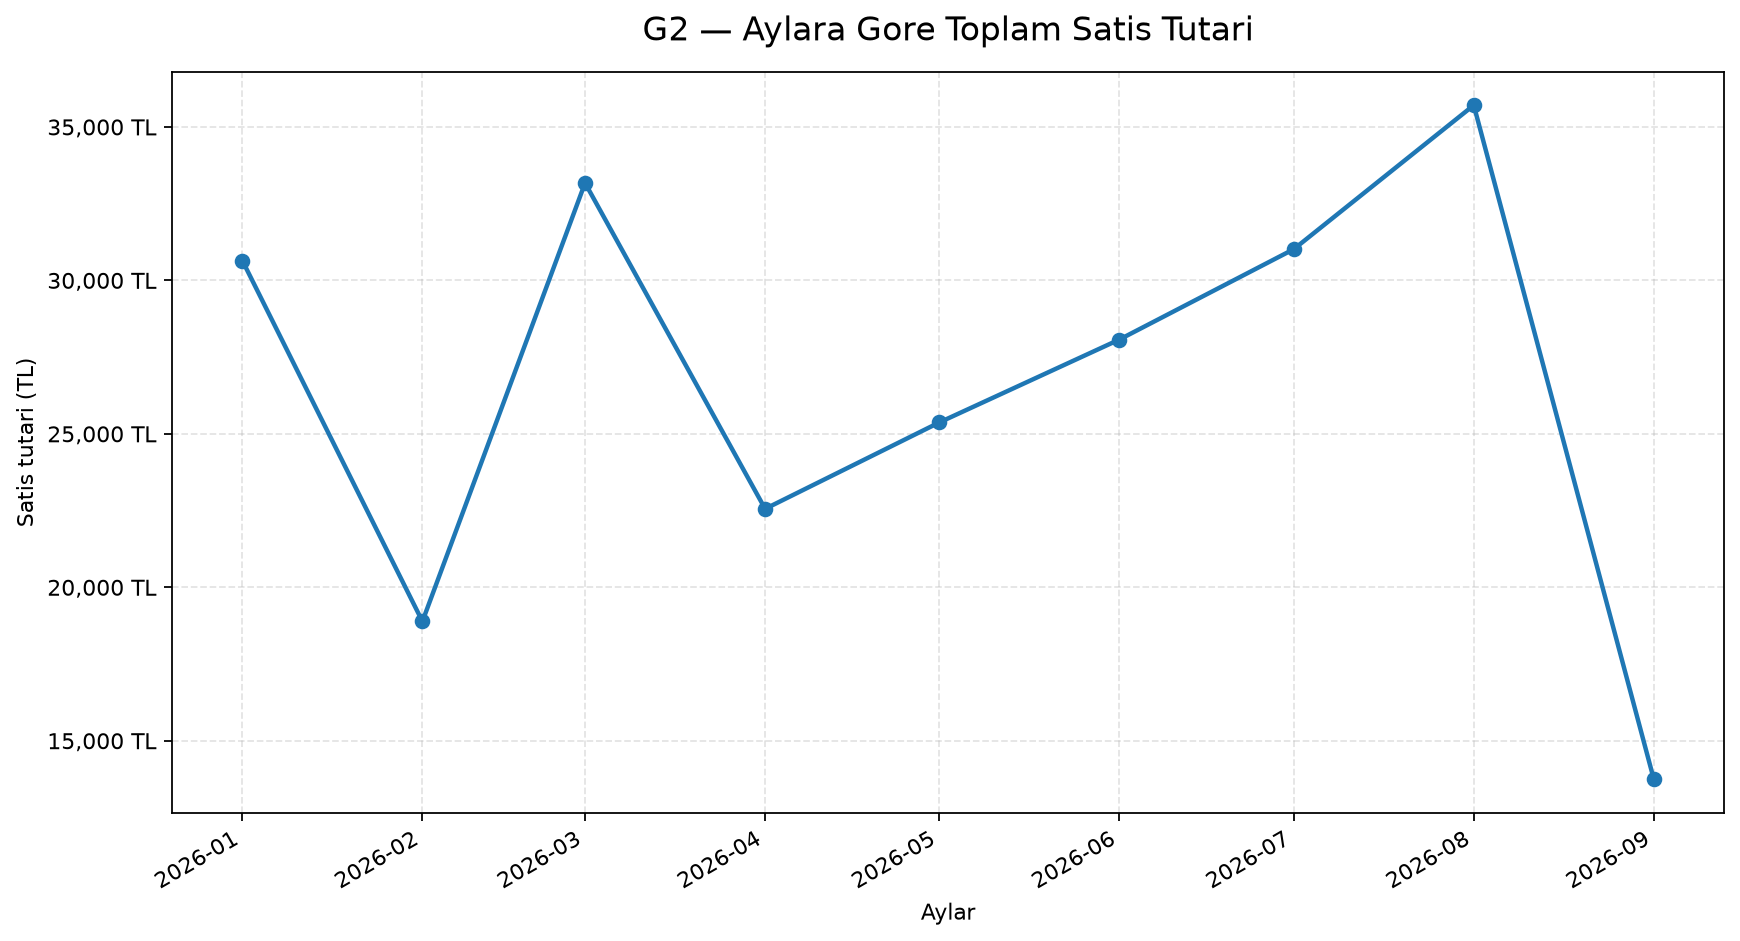
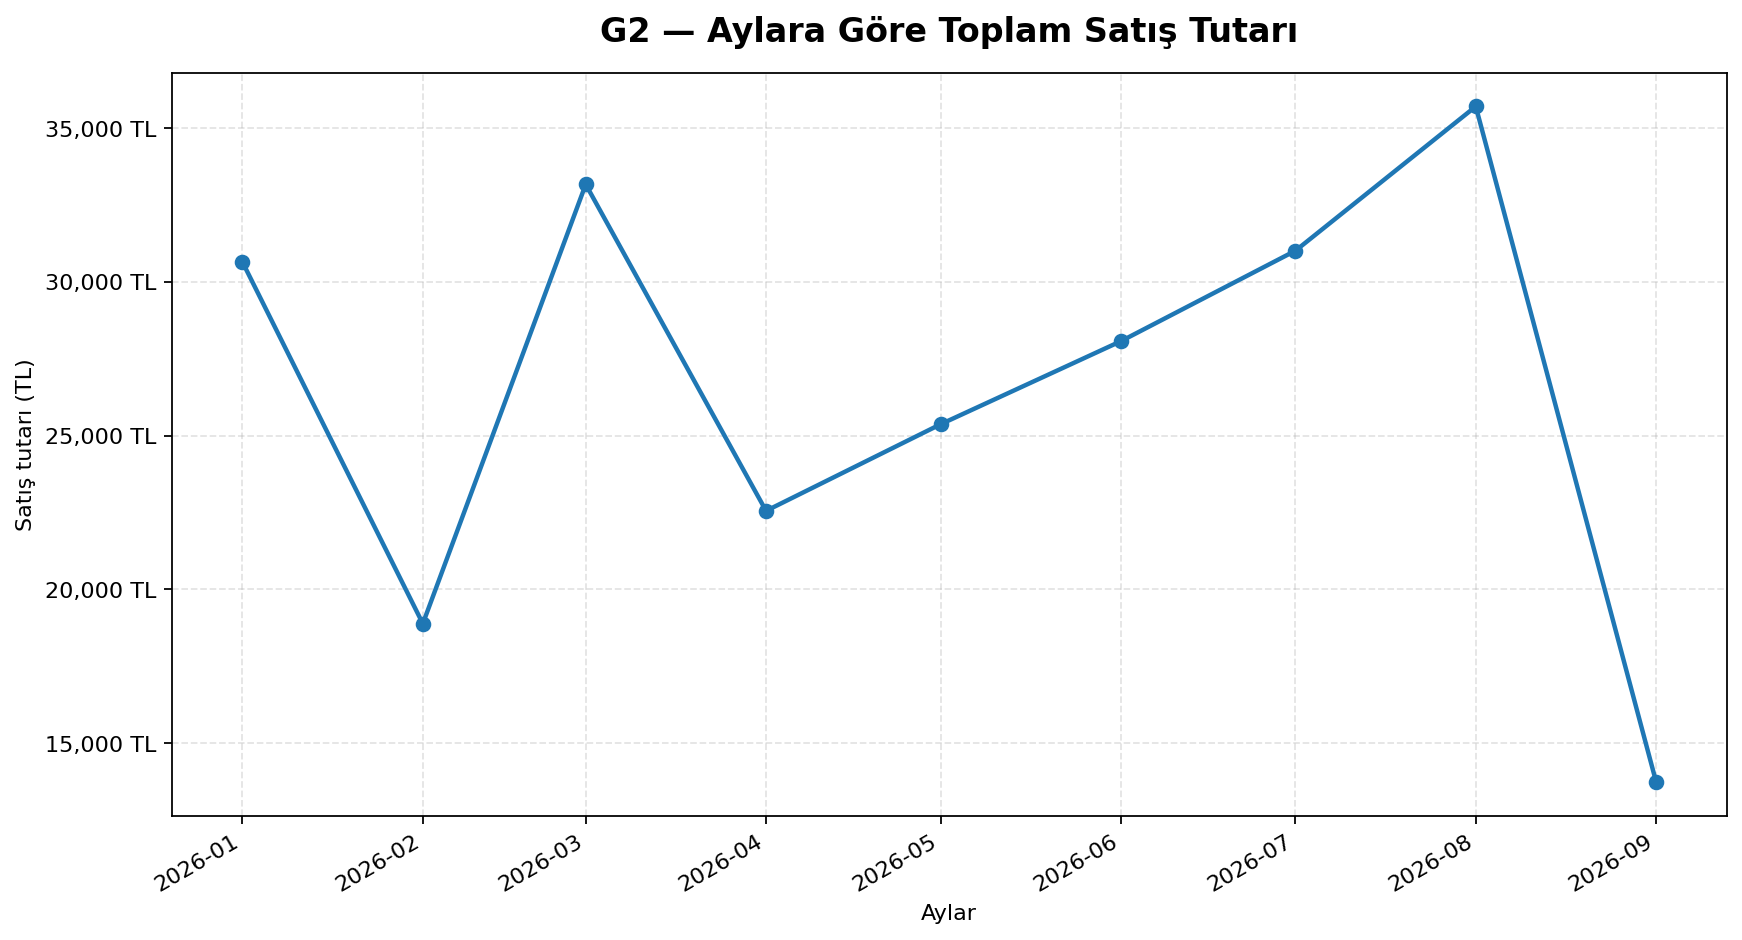
G2-gorsel: Kategori, magaza dagilimi ve zaman serisi grafikleri uretildi (#28)

diff --git a/src/gorsellestirme_g2.py b/src/gorsellestirme_g2.py
@@ -1,41 +1,38 @@
-"""G2 grafik seti: zaman serisi + kategori kirilimi + dagilim (histogram).
-
-Not: G2 veri semasi (issue #25) ve G2 veri uretimi (issue #26) henuz
-ertelenmis durumdadir. Bu betik, mevcut G1 verisini (data/perakende-satislari.csv)
-kullanarak 3 grafiklik G2 setini uretir; G2 verisi hazir oldugunda girdi dosyasi
-ve sutun adlari bu betikte guncellenecektir.
+"""G2 grafik seti: Zaman Serisi, Kategori Kırılımı ve Mağaza Dağılımı.
+Liderin (PM) talimatına uygun olarak mevcut dosya güncellenmiştir.
 """
 from pathlib import Path
-
+import sys
 import matplotlib
 matplotlib.use("Agg")
-
 import matplotlib.pyplot as plt
 import matplotlib.ticker as ticker
 import pandas as pd
 
 ROOT_DIR = Path(__file__).resolve().parent.parent
+# Hata veren dosya yolu, klasöründeki mevcut dosya adına göre düzeltildi
 DATA_PATH = ROOT_DIR / "data" / "perakende-satislari.csv"
 VISUALS_DIR = ROOT_DIR / "visuals"
 
 
 def veriyi_yukle():
     if not DATA_PATH.exists():
-        raise FileNotFoundError(f"Veri dosyasi bulunamadi: {DATA_PATH}")
+        raise FileNotFoundError(f"Veri dosyası bulunamadı: {DATA_PATH}")
 
     df = pd.read_csv(DATA_PATH)
 
-    gerekli = {"tarih", "kategori", "toplam_tutar"}
+    # G2 için 'magaza' sütunu zorunlu alanlara eklendi
+    gerekli = {"tarih", "kategori", "magaza", "toplam_tutar"}
     eksik = gerekli - set(df.columns)
     if eksik:
-        raise ValueError(f"Eksik sutunlar: {sorted(eksik)}")
+        raise ValueError(f"Eksik sütunlar var: {sorted(eksik)}")
 
     df["tarih"] = pd.to_datetime(df["tarih"], errors="coerce")
     df["toplam_tutar"] = pd.to_numeric(df["toplam_tutar"], errors="coerce")
-    df = df.dropna(subset=["tarih", "kategori", "toplam_tutar"])
+    df = df.dropna(subset=["tarih", "kategori", "magaza", "toplam_tutar"])
 
     if df.empty:
-        raise ValueError("Gecerli satis verisi bulunamadi.")
+        raise ValueError("Geçerli G2 satış verisi bulunamadı.")
 
     return df
 
@@ -45,9 +42,9 @@ def zaman_serisi_grafigi(df):
 
     fig, ax = plt.subplots(figsize=(11, 6))
     ax.plot(aylik.index, aylik.values, marker="o", linewidth=2, color="#1f77b4")
-    ax.set_title("G2 — Aylara Gore Toplam Satis Tutari", fontsize=15, pad=14)
+    ax.set_title("G2 — Aylara Göre Toplam Satış Tutarı", fontsize=15, pad=14, fontweight="bold")
     ax.set_xlabel("Aylar")
-    ax.set_ylabel("Satis tutari (TL)")
+    ax.set_ylabel("Satış tutarı (TL)")
     ax.yaxis.set_major_formatter(
         ticker.FuncFormatter(lambda x, _: f"{x:,.0f} TL")
     )
@@ -58,7 +55,7 @@ def zaman_serisi_grafigi(df):
     hedef = VISUALS_DIR / "g2-zaman-serisi.png"
     fig.savefig(hedef, dpi=160, bbox_inches="tight")
     plt.close(fig)
-    print(f"Olusturuldu: {hedef}")
+    print(f"Oluşturuldu: {hedef}")
 
 
 def kategori_kirilimi_grafigi(df):
@@ -67,9 +64,9 @@ def kategori_kirilimi_grafigi(df):
 
     fig, ax = plt.subplots(figsize=(11, 6))
     cubuklar = ax.barh(kategori.index, kategori.values, color="#ff7f0e")
-    ax.set_title("G2 — Kategorilere Gore Satis Dagilimi", fontsize=15, pad=14)
-    ax.set_xlabel("Satis tutari (TL)")
-    ax.set_ylabel("Urun kategorisi")
+    ax.set_title("G2 — Kategorilere Göre Satış Dağılımı", fontsize=15, pad=14, fontweight="bold")
+    ax.set_xlabel("Satış tutarı (TL)")
+    ax.set_ylabel("Ürün kategorisi")
     ax.xaxis.set_major_formatter(
         ticker.FuncFormatter(lambda x, _: f"{x:,.0f} TL")
     )
@@ -82,7 +79,7 @@ def kategori_kirilimi_grafigi(df):
             xytext=(5, 0),
             textcoords="offset points",
             va="center",
-            fontsize=9,
+            fontsize=9
         )
 
     ax.grid(axis="x", linestyle="--", alpha=0.35)
@@ -92,36 +89,55 @@ def kategori_kirilimi_grafigi(df):
     hedef = VISUALS_DIR / "g2-kategori-kirilimi.png"
     fig.savefig(hedef, dpi=160, bbox_inches="tight")
     plt.close(fig)
-    print(f"Olusturuldu: {hedef}")
+    print(f"Oluşturuldu: {hedef}")
 
 
-def dagilim_grafigi(df):
+def magaza_dagilimi_grafigi(df):
+    magaza = df.groupby("magaza")["toplam_tutar"].sum().sort_values()
+    toplam = magaza.sum()
+
     fig, ax = plt.subplots(figsize=(11, 6))
-    ax.hist(df["toplam_tutar"], bins=20, color="#2ca02c",
-            edgecolor="white", alpha=0.85)
-    ax.set_title("G2 — Satis Tutari Dagilimi (Histogram)", fontsize=15, pad=14)
-    ax.set_xlabel("Satis tutari (TL)")
-    ax.set_ylabel("Kayit sayisi")
+    cubuklar = ax.barh(magaza.index, magaza.values, color="#2ca02c")
+    ax.set_title("G2 — Mağazalara Göre Satış Performansı", fontsize=15, pad=14, fontweight="bold")
+    ax.set_xlabel("Satış tutarı (TL)")
+    ax.set_ylabel("Mağazalar")
     ax.xaxis.set_major_formatter(
         ticker.FuncFormatter(lambda x, _: f"{x:,.0f} TL")
     )
-    ax.grid(axis="y", linestyle="--", alpha=0.35)
+
+    for cubuk, tutar in zip(cubuklar, magaza.values):
+        pay = tutar / toplam * 100 if toplam else 0
+        ax.annotate(
+            f"{tutar:,.0f} TL (%{pay:.1f})",
+            (cubuk.get_width(), cubuk.get_y() + cubuk.get_height() / 2),
+            xytext=(5, 0),
+            textcoords="offset points",
+            va="center",
+            fontsize=9
+        )
+
+    ax.grid(axis="x", linestyle="--", alpha=0.35)
+    ax.set_axisbelow(True)
     fig.tight_layout()
 
-    hedef = VISUALS_DIR / "g2-dagilim.png"
+    hedef = VISUALS_DIR / "g2-magaza-dagilimi.png"
     fig.savefig(hedef, dpi=160, bbox_inches="tight")
     plt.close(fig)
-    print(f"Olusturuldu: {hedef}")
+    print(f"Oluşturuldu: {hedef}")
 
 
 def main():
     VISUALS_DIR.mkdir(parents=True, exist_ok=True)
-    df = veriyi_yukle()
-    print(f"{len(df)} gecerli satis kaydi kullaniliyor.")
-    zaman_serisi_grafigi(df)
-    kategori_kirilimi_grafigi(df)
-    dagilim_grafigi(df)
-    print("Uc grafik de olusturuldu.")
+    try:
+        df = veriyi_yukle()
+        print(f"{len(df)} geçerli satış kaydı kullanılıyor.")
+        zaman_serisi_grafigi(df)
+        kategori_kirilimi_grafigi(df)
+        magaza_dagilimi_grafigi(df)
+        print("Üç Görev 2 grafiği de başarıyla oluşturuldu.")
+    except Exception as e:
+        print(f"Hata: {e}")
+        sys.exit(1)
 
 
 if __name__ == "__main__":
